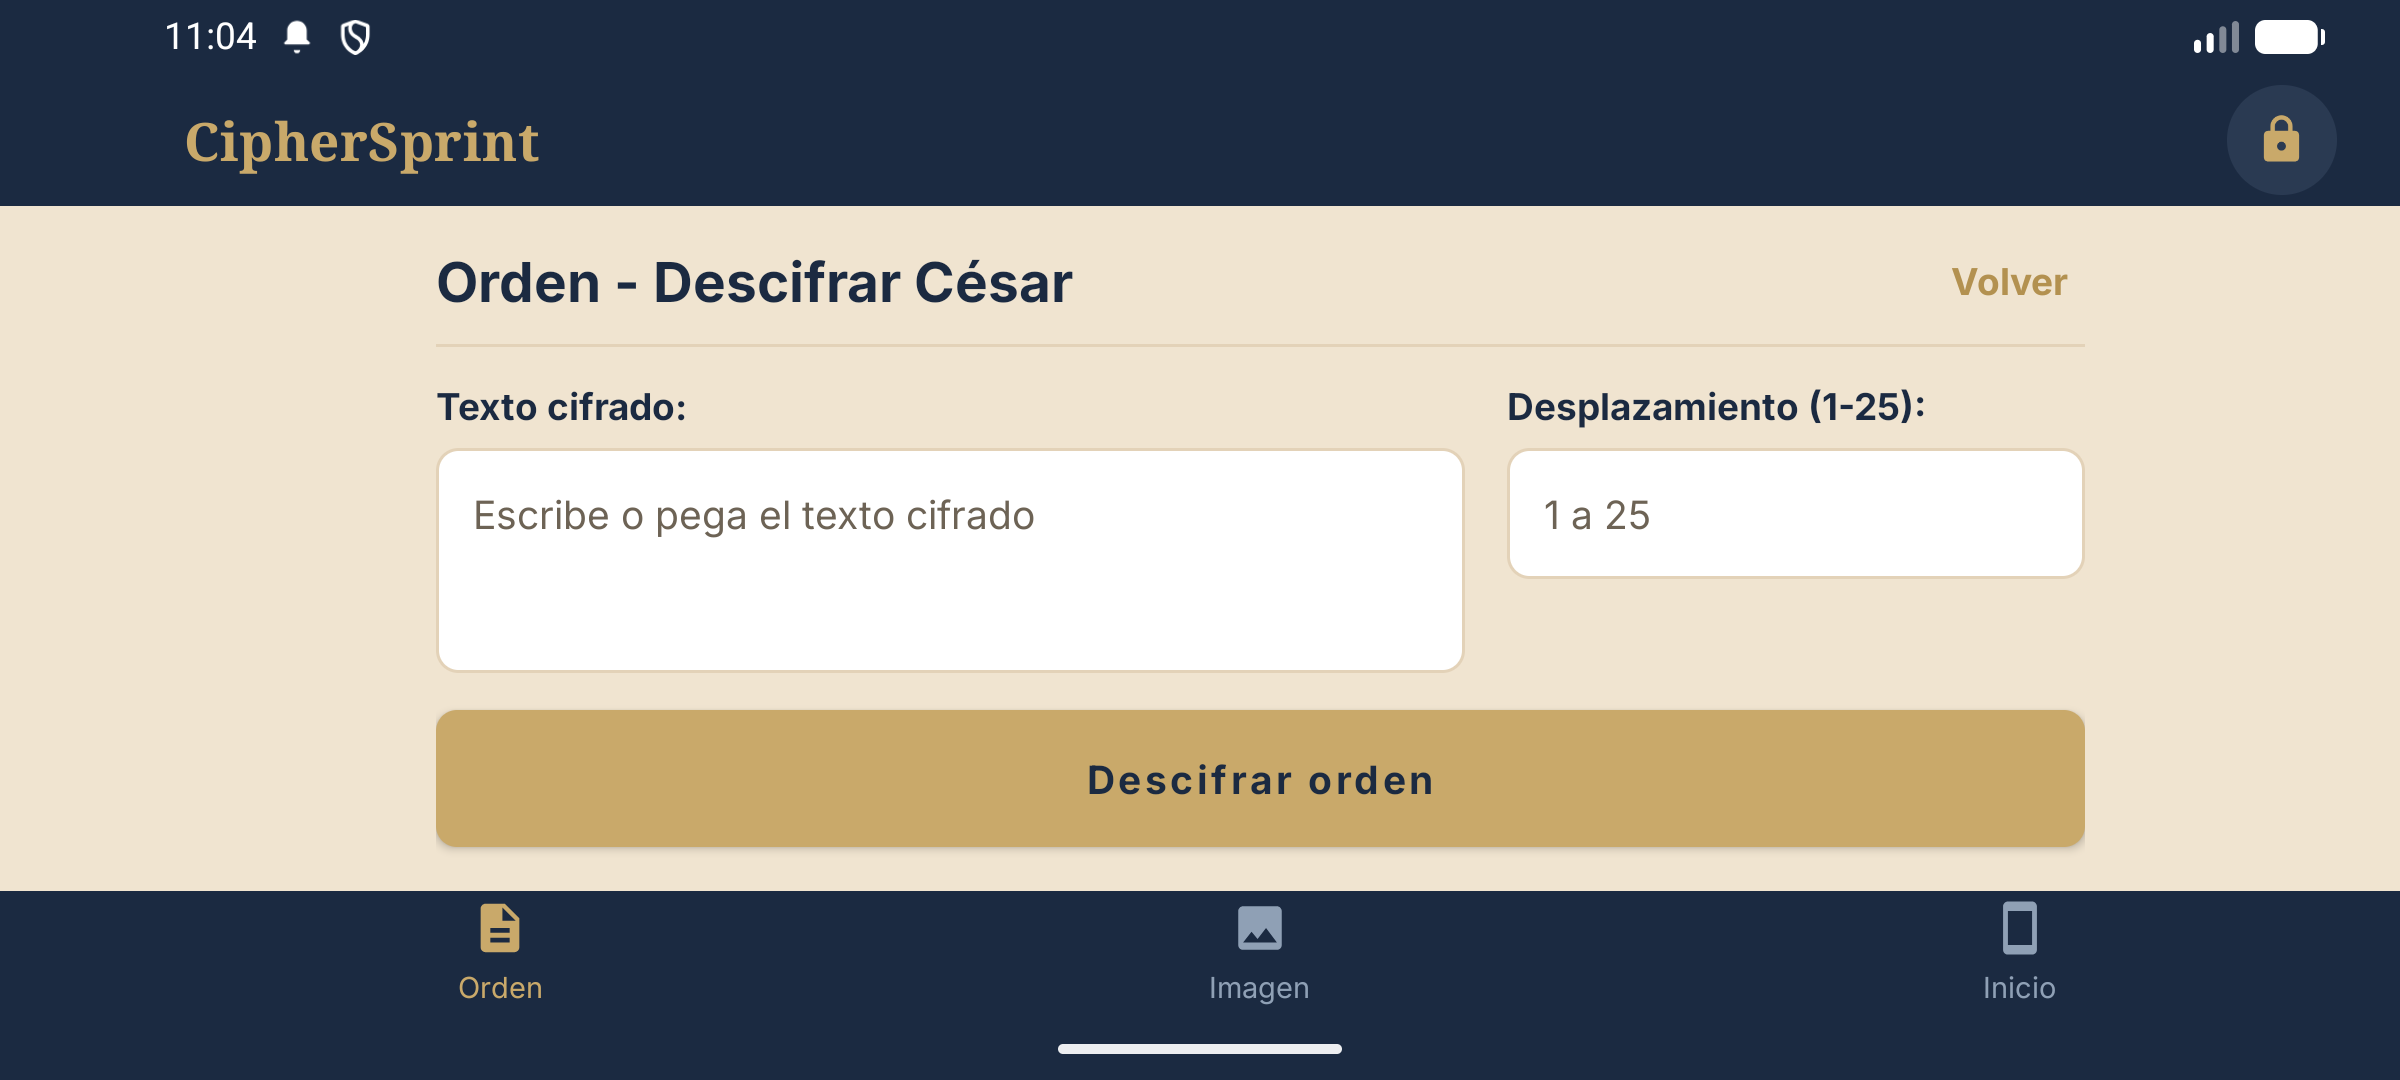
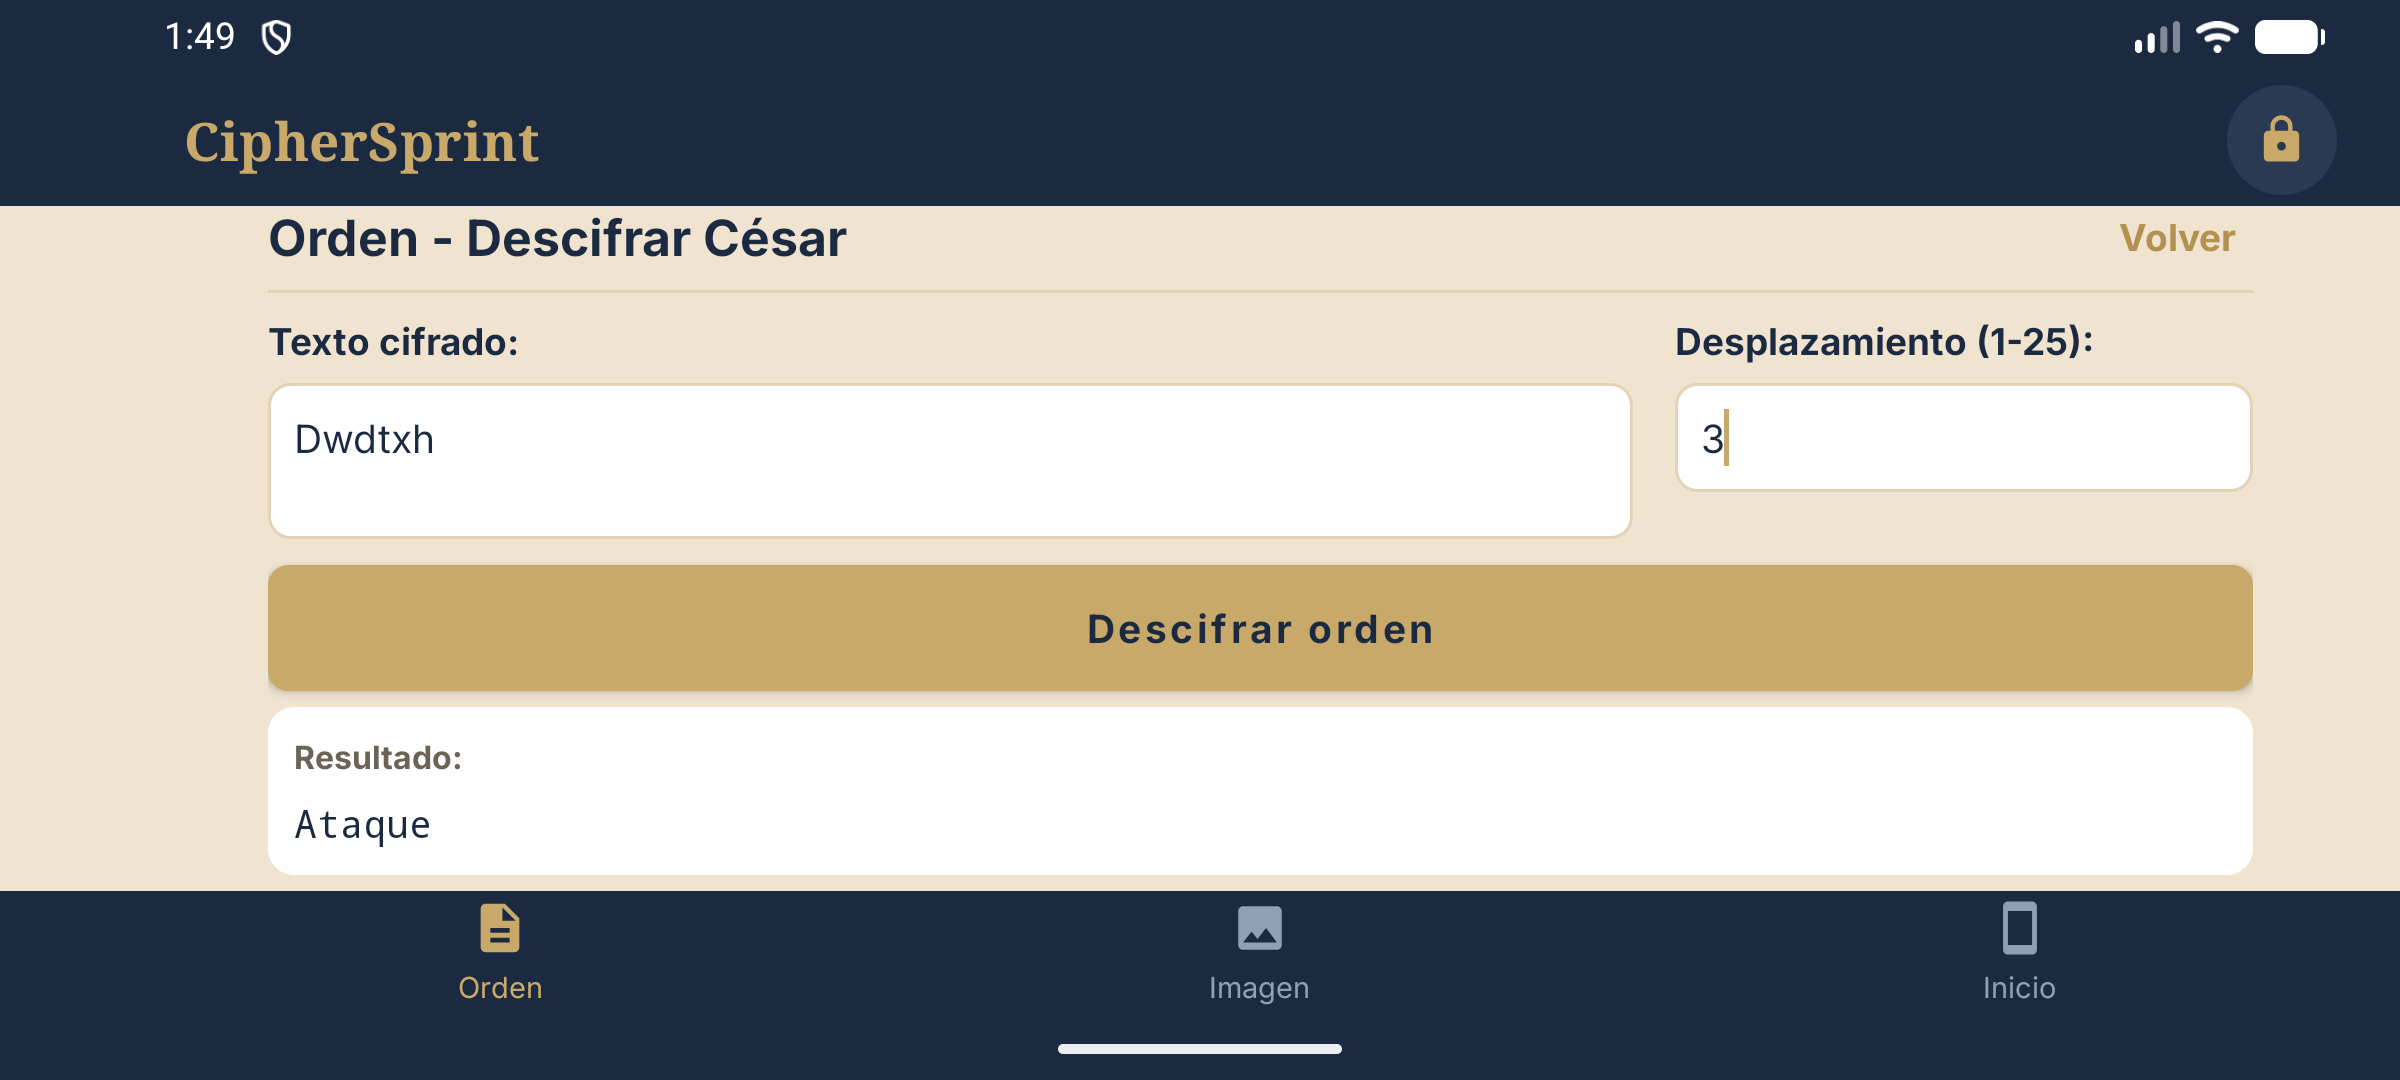
DOCS: Revisión de usuario, pruebas y capturas
Documenta la revision en el emulador Pixel 8a:
casos probados en las tres pantallas, errores
encontrados con su correccion, 19 tests en 6
suites y el APK entregado. Regenera las capturas
e incluye el rechazo de un archivo invalido.

diff --git a/android/docs/validacion-android.md b/android/docs/validacion-android.md
@@ -1,6 +1,6 @@
 # Validación Android — CipherSprint
 
-Autor: Jairo. Fecha: 2026-11-06. Rama: `feature/android`.
+Autor: Jairo. Fecha: 2026-11-07. Rama: `feature/android`.
 Paquete: `com.runnersz.reto2.android`. Versión: `2.0.0` (`versionCode 2`).
 
 ## Entorno de ejecución
@@ -9,7 +9,8 @@ Paquete: `com.runnersz.reto2.android`. Versión: `2.0.0` (`versionCode 2`).
 - JDK 21.0.12 (`Eclipse Adoptium`).
 - Gradle Wrapper 8.9, Android Gradle Plugin 8.6.1, Kotlin 1.9.24.
 - SDK Android 35; `minSdk 26`, `targetSdk 35`.
-- Emulador Pixel 8a, `emulator-5556`, 1080 × 2424.
+- Emulador Pixel 8a, `emulator-5554`, Android 17 (API 37), 1080 × 2400,
+  densidad 420.
 
 El `JAVA_HOME` global apunta a JDK 25 y no sirve para este build
 (`Unsupported class file major version 69`). Todas las comprobaciones se
@@ -21,7 +22,7 @@ Comando ejecutado desde `android/`:
 
 ```bash
 JAVA_HOME="C:/Program Files/Eclipse Adoptium/jdk-21.0.12.101-hotspot" \
-  sh ./gradlew --no-daemon assembleRelease testDebugUnitTest
+  sh ./gradlew --no-daemon testDebugUnitTest assembleRelease
 ```
 
 Resultado: **BUILD SUCCESSFUL**. `assembleRelease` incluye
@@ -29,57 +30,130 @@ Resultado: **BUILD SUCCESSFUL**. `assembleRelease` incluye
 
 | Suite | Tests | Fallos | Errores |
 | --- | ---: | ---: | ---: |
-| `data.ApiClientTest` | 5 | 0 | 0 |
+| `data.ApiClientTest` | 7 | 0 | 0 |
 | `data.ApiConfigTest` | 2 | 0 | 0 |
+| `domain.FileValidatorTest` | 4 | 0 | 0 |
+| `domain.ImageSamplerTest` | 3 | 0 | 0 |
 | `domain.ShiftValidatorTest` | 2 | 0 | 0 |
 | `security.SecureTokenProviderTest` | 1 | 0 | 0 |
-| **Total** | **10** | **0** | **0** |
+| **Total** | **19** | **0** | **0** |
 
 No se ejecutaron instrumented tests, cobertura ni un análisis Lint completo
 fuera del `lintVitalRelease` del build. No se presenta cobertura como si se
 hubiera medido.
 
+## Pruebas de usuario en el emulador
+
+Las pruebas se hicieron con la app instalada en release y contra la API real
+(`https://runnersz-api.onrender.com/api/v1`), manejando la interfaz con
+`adb`/`uiautomator` como un usuario normal: toques, texto escrito, rotación y
+botones del sistema.
+
+### Inicio
+
+| Caso | Resultado esperado | Observado |
+| --- | --- | --- |
+| Abrir la app | Comprobación automática de la API | «API responde correctamente» |
+| Pulsar **Probar API** | Repite la comprobación | Estado actualizado sin duplicar mensajes |
+| Cambiar de pestaña y volver | No repite la petición ya hecha | Se conserva el estado |
+| Sin red | Mensaje claro, sin cuelgue | «No se pudo conectar con el servidor» |
+| Botón atrás | Sale de la app | Sale al launcher |
+
+### Orden (César)
+
+| Caso | Resultado esperado | Observado |
+| --- | --- | --- |
+| `Dwdtxh` con desplazamiento 3 | `Ataque` | Correcto |
+| Desplazamiento 25 | Rotación del alfabeto correcta | `B` para `A`… correcto |
+| Desplazamiento 0 o 26 | Aviso de rango y sin petición | Aviso mostrado |
+| Campos vacíos | Aviso y sin petición | Aviso mostrado |
+| Texto de 300 caracteres | Se envía y se muestra el resultado | Correcto |
+| Sin red | Error de conexión, no de validación | «No se pudo conectar con el servidor» |
+| Girar el móvil tras descifrar | Se conserva texto, desplazamiento y resultado | Correcto |
+| Cambiar de pestaña y volver | Se conserva el formulario y el resultado | Correcto |
+| Re-tocar la pestaña activa | No borra nada | Correcto |
+
+### Imagen (AES)
+
+| Caso | Resultado esperado | Observado |
+| --- | --- | --- |
+| Vector `image.png.enc` con la clave de demo | Vista previa e «Integridad verificada» | Correcto |
+| Clave incorrecta | Mensaje de clave o archivo dañado | «Clave incorrecta o archivo dañado» |
+| Clave vacía | Aviso y sin subida | Aviso mostrado |
+| Archivo `.txt` elegido | Rechazo antes de subir y sin perder el vector | «El archivo debe tener extensión .enc» |
+| Abrir selector de archivos | Filtra y permite elegir `.enc` | Correcto |
+| Girar tras descifrar | Se conserva archivo y vista previa | Correcto |
+| Cambiar de pestaña y volver | Se conserva archivo y vista previa | Correcto |
+| Botón atrás | Vuelve a Inicio | Correcto |
+
+### Accesibilidad e interfaz
+
+| Caso | Resultado esperado | Observado |
+| --- | --- | --- |
+| Fuente del sistema al 1.4× | Sin textos cortados | Sin desbordes en las tres pantallas |
+| Descripción del icono de la cabecera | Una sola etiqueta para TalkBack | Solo «Conexión protegida» |
+| Margen horizontal | Contenido sin aire excesivo | Corregido en vertical y horizontal |
+| Rotación en Orden | Cabecera, «Volver» y resultado utilizables | Correcto tras el ajuste de scroll |
+| Rotación en Imagen | Vista previa completa | Correcto tras el ajuste de scroll |
+
+## Errores encontrados y corregidos
+
+1. **Resultado de Orden perdido al girar.** Los `Fragment` se recreaban sin
+   estado. Se añadió `OrderViewModel`.
+2. **Formulario borrado al cambiar de pestaña o re-tocar la pestaña activa.**
+   Las pestañas se sustituían con `replace`. Ahora se usan instancias vivas con
+   `add`/`show`/`hide` y se restauran al volver del proceso.
+3. **Vista previa y archivo de Imagen perdidos al girar.** Se añadió
+   `ImageViewModel`, que libera bitmap y archivo en `onCleared()`.
+4. **Archivos que no eran `.enc` aceptados.** Se subía y fallaba en el servidor.
+   Ahora `FileValidator` lo rechaza en el dispositivo con un mensaje claro y sin
+   gastar la subida.
+5. **Decodificación de la imagen en el hilo de UI.** Riesgo de bloqueo y de
+   `OutOfMemoryError` con capturas grandes. Ahora se decodifica en
+   `Dispatchers.IO` con muestreo (`inSampleSize`).
+6. **Respuesta JSON inválida tratada como fallo de red.** Se captura
+   `JSONException` y se muestra un error de respuesta del servidor.
+7. **Etiquetas duplicadas para TalkBack y márgenes horizontales excesivos.**
+   Simplificados los `content-desc` y los márgenes de los layouts.
+8. **Horizontal: el resultado tapaba la cabecera y «Volver».**
+   El desplazamiento automático arrastraba la pantalla y el rechazo de archivo
+   dejaba visible la vista previa anterior. Ahora el desplazamiento es mínimo,
+   el rechazo limpia la vista previa y el ScrollView no restaura su posición.
+
+Cada apartado se cerró en su propio commit sobre `feature/android`:
+
+- `FIX: Conserva el estado entre giros y pestañas`
+- `FIX: Valida el .enc y decodifica sin bloquear UI`
+- `FIX: Distingue respuesta inválida de fallo de red`
+- `FEAT: Accesibilidad y horizontal más útil`
+- `FIX: Mantén la cabecera al mostrar el resultado`
+
 ## APK entregado
 
 - Ruta de build: `android/app/build/outputs/apk/release/app-release.apk`.
 - Copia en el Escritorio: `C:\Users\dm2\Desktop\CipherSprint.apk`.
-- Tamaño: 2.515.286 bytes.
[1 lines of base64/hex data omitted]
+- Tamaño: 2.552.264 bytes.
[1 lines of base64/hex data omitted]
 - Release con R8 full mode, recursos reducidos y sin `debuggable`.
 - Firmado con la clave **debug** para permitir la instalación de demo; no es
   una firma de producción.
 
-## Verificación contra la API real
+## Evidencias
 
-Servidor: `https://runnersz-api.onrender.com/api/v1`. Token integrado en la app.
-
-- `GET /auth/check`: `204`, mostrado como «API responde correctamente» en Inicio.
-- `POST /text/caesar`: entrada `Dwdtxh`, desplazamiento `3`; resultado mostrado
-  `Ataque`. Los campos arrancan vacíos y solo muestran pistas de uso.
-- `POST /files/decrypt`: vector `image.png.enc` con clave de demostración;
-  respuesta con `X-Integrity: verified` y vista previa correcta.
+- `evidencias/01_inicio.png`: Inicio con estado correcto y tres pestañas.
+- `evidencias/02_orden.png`: formulario César vacío, con pistas.
+- `evidencias/03_orden_resultado.png`: `Dwdtxh` y 3 dan `Ataque`.
+- `evidencias/04_imagen.png`: vector de prueba y clave AES precargados.
+- `evidencias/05_imagen_resultado.png`: «Integridad verificada» y vista previa.
+- `evidencias/06_horizontal_orden.png`: horizontal con cabecera, «Volver» y
+  resultado visibles.
+- `evidencias/07_horizontal_imagen.png`: horizontal con la vista previa
+  completa tras descifrar.
+- `evidencias/08_extension_invalida.png`: `.txt` rechazado por su extensión.
 
 Las capturas se tomaron con la app en primer plano. Se comprobó el foco
 (`topResumedActivity`) antes de cada captura para descartar que el emulador
 estuviera mostrando otra aplicación.
-
-## Rotación
-
-Se probaron 1080 × 2424 en vertical y 2400 × 1080 en horizontal. En horizontal
-la cabecera se compacta y oculta el subtítulo; Orden coloca texto y
-desplazamiento en paralelo, Imagen coloca archivo y clave en paralelo, e Inicio
-agrupa estado, botón y accesos en filas. Se aplicaron insets laterales para
-notch y barra de navegación. No se observaron controles cortados.
-
-## Evidencias
-
-- `evidencias/01_inicio.png`: Inicio con estado correcto y tres pestañas.
-- `evidencias/02_orden.png`: formulario César con valores por defecto.
-- `evidencias/03_orden_resultado.png`: «Ataque Ñá! 2026».
-- `evidencias/04_imagen.png`: vector de prueba y clave AES.
-- `evidencias/05_imagen_resultado.png`: «Integridad verificada» y vista previa.
-- `evidencias/06_horizontal_orden.png`: Orden con texto y desplazamiento en paralelo.
-- `evidencias/07_horizontal_imagen.png`: Imagen con archivo y clave en paralelo.
 
 ## Comprobaciones de seguridad realizadas
 
@@ -103,8 +177,10 @@ notch y barra de navegación. No se observaron controles cortados.
 - No se implementó certificate pinning; se confía en las CA del sistema.
 - La firma del APK es debug, no de producción.
 - La verificación se hizo en emulador, no en un móvil físico.
-- No se probaron TalkBack manual, modo oscuro ni dispositivos de gama baja.
-- La rotación se verificó en el emulador, no en un móvil físico.
+- No se probó TalkBack con voz real, ni modo oscuro, ni dispositivos de gama
+  baja; la accesibilidad se limitó a etiquetas, regiones vivas y tamaños.
+- En horizontal con fuente muy grande el contenido sigue siendo desplazable:
+  se ve la cabecera al entrar, pero un resultado largo obliga a desplazar.
 - La disponibilidad y el formato de la API dependen del backend desplegado; si
   cambia el contrato o se rota el token, hay que actualizar el cliente.
 - Los cambios están publicados en `origin/feature/android`; no se abrió PR.

diff --git a/android/README.md b/android/README.md
@@ -20,6 +20,10 @@ No descifra localmente: las operaciones se delegan en la API oficial por HTTPS.
 - **Navegación**: barra inferior Orden / Imagen / Inicio y filas de
   acceso rápido en Inicio. Recibe archivos mediante `ACTION_SEND` y
   `ACTION_VIEW` (texto, imagen u octet-stream).
+- **Estado estable**: cada pestaña conserva formulario y resultado al cambiar
+  de pestaña, al re-tocar la pestaña activa y al girar el dispositivo. Los
+  archivos que no son `.enc` se rechazan antes de subirlos y la vista previa se
+  decodifica fuera del hilo de UI.
 - **Interfaz adaptativa**: variantes vertical y horizontal, cabecera compacta
   al girar y márgenes seguros para notch y barra de navegación.
 
@@ -33,7 +37,7 @@ No descifra localmente: las operaciones se delegan en la API oficial por HTTPS.
 - `app/src/main/java/.../ui`: Inicio, Orden e Imagen.
 - `app/src/main/assets/demo/image.png.enc`: vector AES de demostración.
 - `app/src/main/res`: cabecera, layouts, navegación, colores y textos.
-- `app/src/test`: 4 suites JUnit/Robolectric con 10 pruebas.
+- `app/src/test`: 6 suites JUnit/Robolectric con 19 pruebas.
 - `gradle/wrapper`: Gradle 8.9; no requiere instalación global.
 
 ## API utilizada
@@ -96,16 +100,18 @@ El JDK del sistema debe ser 21: Gradle 8.9 no admite JDK 25.
 
 - APK generado: `app/build/outputs/apk/release/app-release.apk`.
 - Copia de entrega: `C:\Users\dm2\Desktop\CipherSprint.apk`.
[1 lines of base64/hex data omitted]
-- Tamaño: 2.515.286 bytes.
[1 lines of base64/hex data omitted]
+- Tamaño: 2.552.264 bytes.
 
 ## Validación
 
 Consultar [`docs/validacion-android.md`](docs/validacion-android.md) para los
 resultados realmente ejecutados, las capturas y los límites.
 
-Resumen: `BUILD SUCCESSFUL`, 10 tests en 4 suites, 0 fallos, y verificación
-manual en el emulador `emulator-5556` contra la API real desplegada.
+Resumen: `BUILD SUCCESSFUL`, 19 tests en 6 suites, 0 fallos, y verificación
+manual en el emulador `emulator-5554` (Pixel 8a) contra la API real desplegada:
+flujos completos de las tres pantallas, errores de red y de validación,
+rotación, cambio de pestañas, fuente ampliada y modo horizontal.
 
 ## Capturas del emulador
 
@@ -116,3 +122,4 @@ manual en el emulador `emulator-5556` contra la API real desplegada.
 - [Imagen con integridad verificada](docs/evidencias/05_imagen_resultado.png)
 - [Orden en horizontal](docs/evidencias/06_horizontal_orden.png)
 - [Imagen en horizontal](docs/evidencias/07_horizontal_imagen.png)
+- [Archivo con extensión inválida](docs/evidencias/08_extension_invalida.png)
